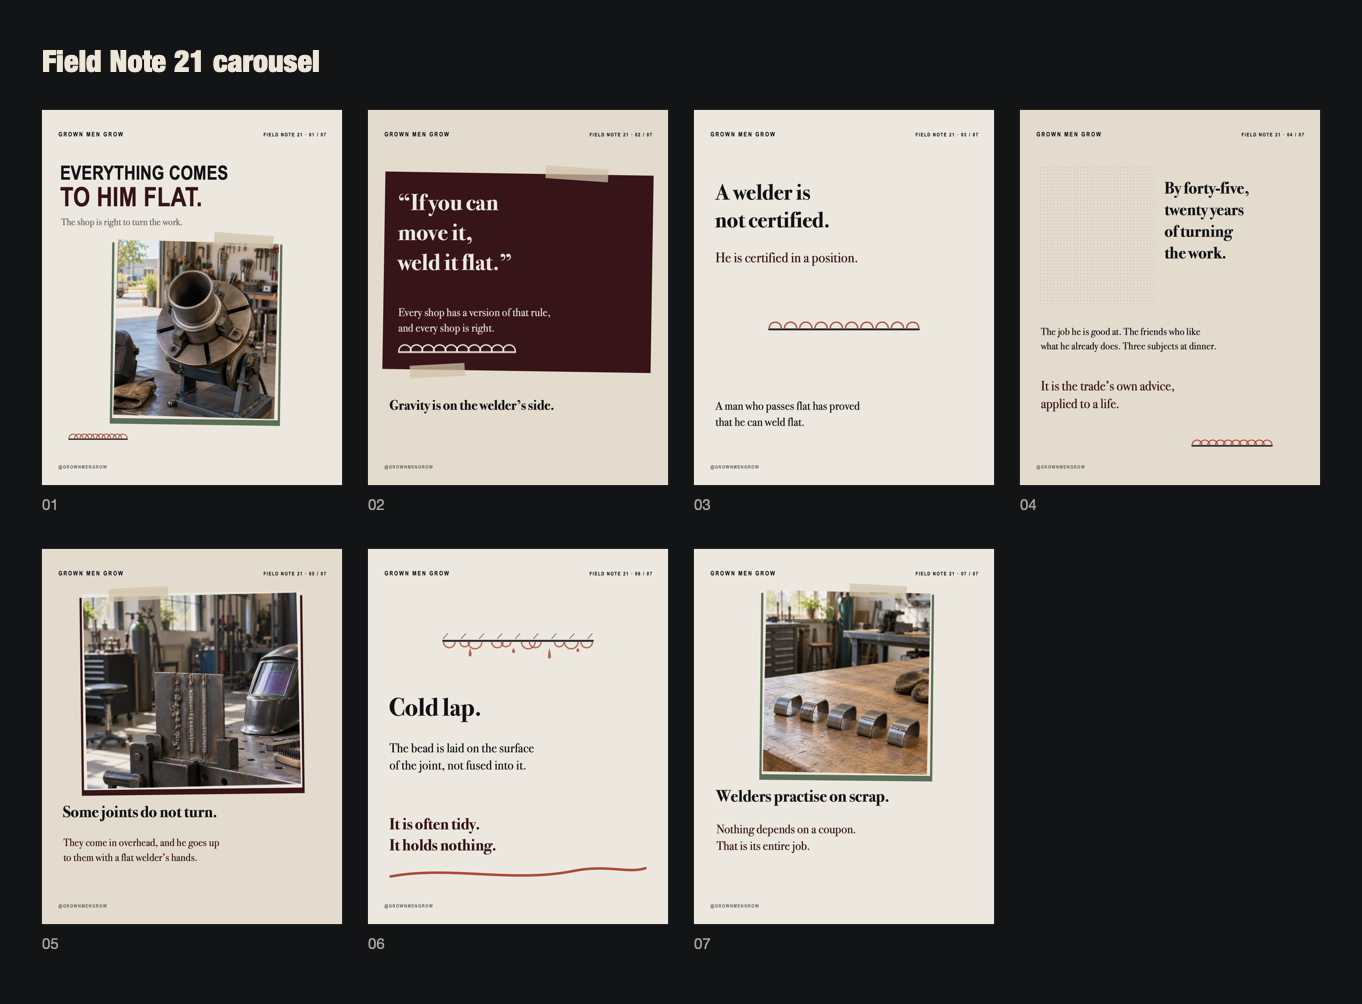
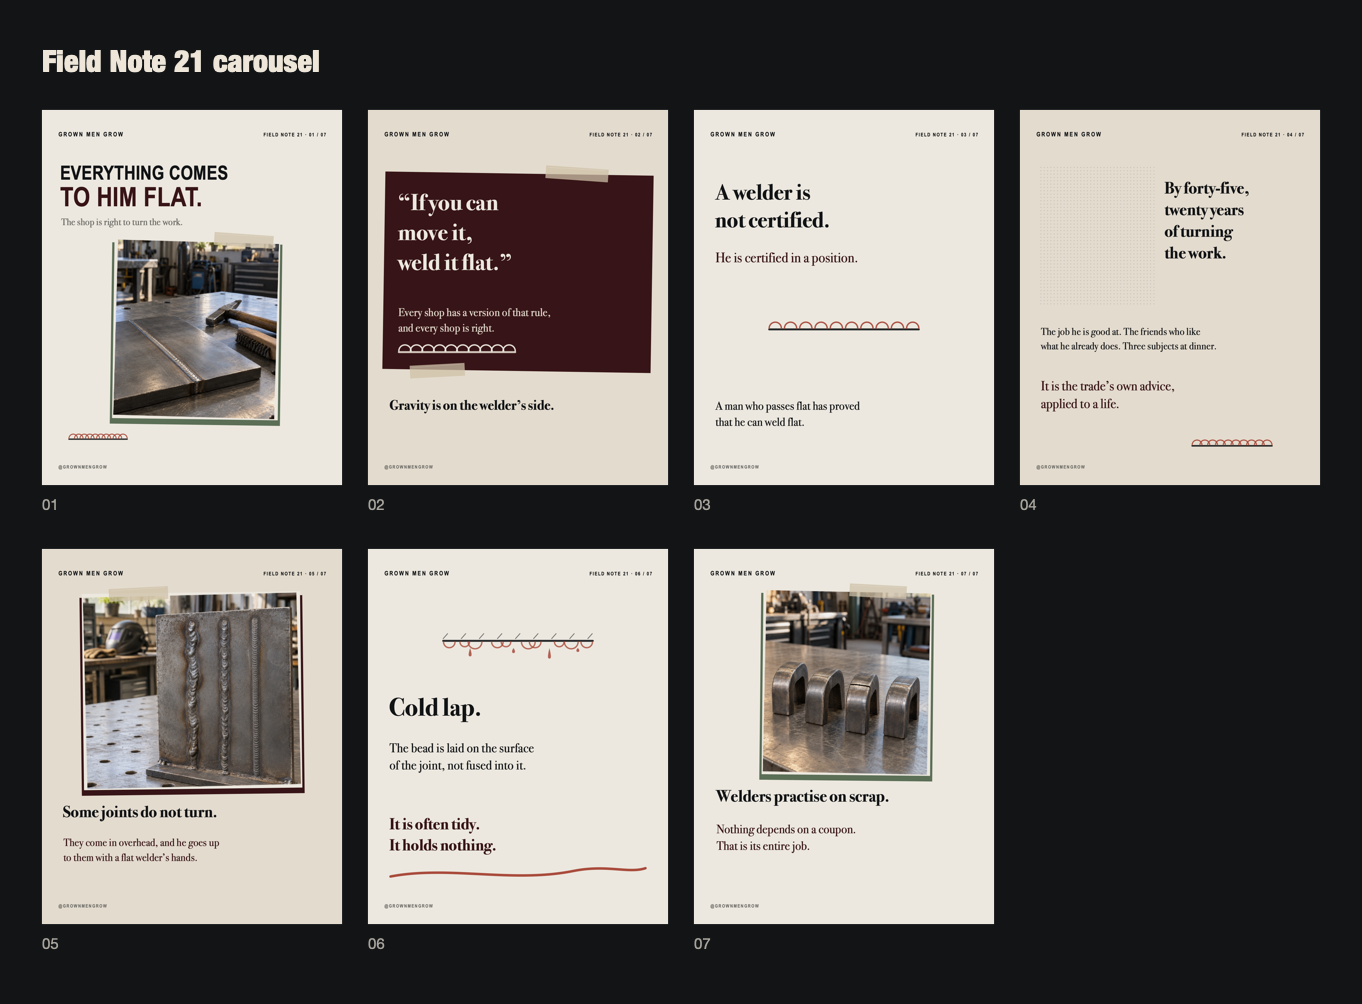
fix(field-note-21): regenerate all three photographs to the quality gate (#189)
A full-resolution re-review found a physical tell in every photograph shipped
in #188: chuck jaws off the faceplate slots, a clamp crank driving no screw,
and sheet-metal clips passed off as bend-test bars. The gate rejects on one
tell, so all three are replaced. Six further generations failed and were
rejected on named tells; the prompts that kept failing on mechanisms now omit
the mechanism. Exact prompts and the rejection record are in the note's
production notes. No copy changed.

Changed region(s): [[0.0617, 0.5867, 0.2467, 0.8028], [0.0617, 0.2161, 0.2159, 0.4323], [0.5551, 0.5867, 0.7093, 0.7719]]

diff --git a/drafts/field-note-21-everything-comes-to-him-flat.md b/drafts/field-note-21-everything-comes-to-him-flat.md
@@ -6,7 +6,7 @@ byline: none — publication voice (founder ruling 2026-08-10)
 access: public
 email_subject: Everything Comes to Him Flat
 preview: A welder is not certified. He is certified in a position.
-feature_image_alt: A short length of steel pipe clamped in a benchtop welding positioner with its finished seam turned face up, beside a practice plate clamped upright with uneven beads run up it, in a paper collage.
+feature_image_alt: Two steel plates butt-welded flat on a welding table with one clean finished bead, beside a practice plate standing upright with three vertical beads that run from rough to clean, in a paper collage.
 status: draft — NOT founder-approved
 approved: no
 publication_authorized: false — NOT authorized for publication, newsletter delivery, metadata, or social posting
@@ -133,19 +133,19 @@ Some joints do not turn. They arrive already installed, and they come in overhea
 
 # Instagram alt text source
 
-- Slide 1: Title Everything Comes to Him Flat above a photograph of a steel pipe clamped in a benchtop welding positioner with its seam turned face up in a daylit shop, and a small drawn bead mark.
+- Slide 1: Title Everything Comes to Him Flat above a photograph of two steel plates butt-welded flat on a welding table in a daylit shop, a chipping hammer and wire brush beside them, and a small drawn bead mark.
 - Slide 2: Serif text quoting the shop rule to weld it flat if you can move it, over a torn oxblood field, with the bead mark drawn in pale ink, level and evenly rippled.
 - Slide 3: Sparse page about being certified in a position, with the bead mark drawn at full scale on a level joint line.
 - Slide 4: Halftone field beside text about a competent man spending twenty years turning the work, with the bead mark small and level.
-- Slide 5: A practice plate clamped upright with uneven beads run up it, above text about joints that do not turn.
+- Slide 5: A practice plate standing upright on an angle-iron foot with three vertical beads run up it, rough on the left and clean on the right, above text about joints that do not turn.
 - Slide 6: The bead mark drawn at full scale hanging from the underside of a hatched ceiling line, its ripples uneven and drops pulling off it, above text defining cold lap.
-- Slide 7: A row of steel test strips bent into U shapes on a workbench, above closing text about practising on scrap.
+- Slide 7: Four thick steel test bars bent into U shapes on a steel bench, one split across its weld at the bend, above closing text about practising on scrap.
 
 # Visual direction
 
 - Family: Field Note; image-led cover, alternating photograph and type interiors, clean shop daylight, fabrication. Signature: a hand-drawn **bead mark** — a straight joint line with a run of overlapping crescent ripples laid along it. Its first state draws the line level with the ripples even and tight; its second tilts the same line up to overhead, with the ripples spaced unevenly and small drops hanging off the underside. Same bead, same length, and the only thing that changes is which way gravity is pulling on it. No prior vocabularies: not the counterbalance, load path, tolerance stack, downspout, strength curve, sling, transfer switch, battery gauge, route line, tally, ledger, alarm arc, diverging fork, anode section, bubble vial or branch stub.
-- Lead: a steel pipe clamped in a benchtop welding positioner, seam turned face up, one clean bead finished around the joint.
-- Details: a practice plate clamped upright in a fixture with uneven vertical beads run up it; a row of bent test strips on a workbench.
+- Lead: two steel plates butt-welded flat on a welding table, one clean finished bead, a chipping hammer and wire brush set down beside them.
+- Details: a practice plate standing upright on a tacked angle-iron foot with three vertical beads from rough to clean; four thick bend-test bars on a steel bench, one split at its weld.
 - All three photographs newly generated for this note under the house prompt in `docs/technical/content-pipeline.md`, unique to it, and each used in at most one published asset per the 2026-08-16 exclusivity ruling.
 
 # Production notes
@@ -154,7 +154,8 @@ Some joints do not turn. They arrive already installed, and they come in overhea
 - Stance is `assignment`. `operating-cadence.md` carries `**Standing commission:** none`, and the subject test fails for witness: running coupons out of position is a move the reader has. The most recent note shipped `witness`.
 - No first-person anecdote appears and no event is asserted as having happened; the essay runs in the generic present per the 2026-08-08 founder ruling, reaffirmed 2026-08-12.
 - The trade specifics are ordinary welding practice — the flat-position rule and work positioners, position-specific welder qualification, cold lap, the guided bend test, and the structural code's six-month continuity rule for a welder's qualification — used as metaphor, not as instruction.
-- Photography generated 2026-09-16 in the founder's ChatGPT project, continuing the current Editorial Photography Request thread as its tenth, eleventh and twelfth images. Prompts recorded below.
-- `assets/source/editorial/pipe-positioner-seam-up.png` (slide 1, feature image) — "Now a tenth, separate image in the same editorial photography style, portrait orientation 2:3, single image. A short length of steel pipe clamped in a small benchtop welding positioner, the turntable tilted so the seam faces straight up, one neat, evenly rippled weld bead finished around the joint; the image suggests work deliberately brought around to where it can be done well. A well-kept small fabrication shop in use, swept concrete floor, clamps and hand tools hung on the wall behind, daylight coming in from an open roll-up door. No people. Contemporary editorial photography with the polish of a major men's magazine, natural texture, restrained fine film grain, candid rather than posed. Dynamic off-center composition with clean negative space above the work. Soft morning daylight, warm, optimistic, grounded. Adult subject, pristine natural anatomy, maintained welcoming setting, no logos, no readable text, no watermark. Avoid: sparks, flame or glowing orange metal, grime and rust, heavy dramatic shadows, macho workshop cliches, cluttered scrap piles, a bead that looks melted or blobby, a positioner with impossible or floating mechanics."
-- `assets/source/editorial/vertical-practice-plate-beads.png` (slide 5, feature image) — "Now an eleventh, separate image in the same editorial photography style, portrait orientation 2:3, single image. Two small square steel practice plates tacked together and clamped upright in a sturdy fixture on the arm of a steel welding table, the seam running vertically, with three practice weld beads run up the plate side by side: the left one lumpy with small sagging drips, the middle one better, the right one nearly even; the image suggests somebody honestly learning a hard position on scrap, with visible progress. A clean, well-kept fabrication shop in daily use, a welding helmet resting on the table beside the fixture, soft window daylight. No people. Contemporary editorial photography with the polish of a major men's magazine, natural texture, restrained fine film grain, candid rather than posed. Asymmetric composition, plate in the lower third, clean negative space above. Soft late-morning daylight, warm, optimistic, grounded. Adult subject, pristine natural anatomy, maintained welcoming setting, no logos, no readable text, no watermark. Avoid: sparks, glowing hot metal, rust and filth, piles of scrap, dramatic moody lighting, identical copy-pasted beads, beads that float off the plate or ignore the seam, a clamp that holds nothing, a helmet with a logo."
-- `assets/source/editorial/bend-test-strips-bench.png` (slide 7) — "Now a twelfth, separate image in the same editorial photography style, portrait orientation 2:3, single image. A short row of five narrow flat steel test strips on a clean wooden-topped workbench, each strip bent cleanly into a tight U shape with a ground-flush weld across the middle of the bend, lying on their sides in a loose, natural line; one strip near the end has a small open split along its weld on the outside of the bend; the image suggests an honest test that tells the truth about the work. A tidy, well-used fabrication shop, a pair of work gloves set down at the edge of the bench, soft daylight from a side window. No people. Contemporary editorial photography with the polish of a major men's magazine, natural texture, restrained fine film grain, candid rather than posed. Dynamic off-center composition, strips in the lower half, clean negative space above. Soft afternoon daylight, warm, optimistic, grounded. Adult subject, pristine natural anatomy, maintained welcoming setting, no logos, no readable text, no stamped numbers, no watermark. Avoid: rust and grime, sparks or heat glow, dramatic shadows, strips bent into impossible or rubbery curves, identical cloned strips, metal that looks like plastic or ribbon, a crack drawn like a cartoon, clutter."
+- Photography generated 2026-09-16 in the founder's ChatGPT project, continuing the current Editorial Photography Request thread. Nine images were generated and three kept; every rejection was made against the quality gate at full resolution, on a physical tell, not on taste.
+- Rejected, and why: the first pipe-in-positioner image (chuck jaws sat between the faceplate's slots rather than in them); the first vertical plate (a clamp crank connected to no screw); the first bend strips (thin sheet clips with curled, hooked ends rather than test bars); a pipe on turning rolls (one wheel per station, the pipe unsupported where the second should carry it); a second vertical plate (beads rendered as strings of polished balls); a third vertical plate (a C-clamp with two screws and two T-handles, and text-like marks on its frame). The first round shipped in #188 with a flag on the strips; it should not have shipped at all, and this change set replaces all three.
+- `assets/source/editorial/flat-plate-butt-weld-bench.png` (slide 1, feature image) — "Now a fourteenth, separate image in the same editorial photography style, portrait orientation 2:3, single image. Two rectangular steel plates about half an inch thick, butt-welded edge to edge and lying flat on a clean steel welding table, joined by one straight, finished weld bead with an even, fine ripple running the full length of the seam; a chipping hammer and a wire brush set down on the table beside the plates; the image suggests work done in the position where good work comes easily. A well-kept fabrication shop in daily use, softly out of focus behind, daylight from a large window. No people. Contemporary editorial photography with the polish of a major men's magazine, natural texture, restrained fine film grain, candid rather than posed. Dynamic off-center composition, the bead running diagonally from lower left toward the middle, clean negative space above. Soft morning daylight raking low across the bead so its ripples read, warm, optimistic, grounded. Adult subject, pristine natural anatomy, maintained welcoming setting, no logos, no readable text, no watermark. Avoid: a bead that wanders off the seam, a bead that floats above the steel, more than one seam, plates of inconsistent thickness, tools that melt into the table, a hammer with a malformed head or handle, sparks or glowing metal, grime and rust, dramatic shadows, clutter."
+- `assets/source/editorial/practice-plate-angle-foot.png` (slide 5, feature image) — "Now a seventeenth, separate image in the same editorial photography style, portrait orientation 2:3, single image. A close view of a single square steel practice plate about a foot across standing upright on a steel welding table, tack-welded at its base to a short foot of angle iron so it stands on its own; no clamps anywhere in the frame. Three practice weld beads run vertically up the face of the plate side by side, the way a real welding student's plate looks: the left bead wide and uneven, with irregular humps and a couple of short sags where the metal ran; the middle bead narrower and more consistent but still wavering; the right bead tight, flat and evenly rippled; all three matte grey steel with faint heat tint, fused into the plate. The image suggests somebody honestly learning a hard position on scrap, with visible progress. A clean, well-kept fabrication shop in daily use, softly out of focus behind, a welding helmet on a far bench, soft window daylight. No people. Contemporary editorial photography with the polish of a major men's magazine, natural texture, restrained fine film grain, candid rather than posed. Asymmetric composition, the plate filling the right two thirds of the lower frame, clean negative space above and to the left. Soft late-morning daylight, warm, optimistic, grounded. Adult subject, pristine natural anatomy, maintained welcoming setting, no logos, no readable text, no stamped letters or numbers, no watermark. Avoid: any clamp, vise, crank or handle; beads that look like strings of balls or pearls; shiny chrome droplets; beads sitting on the surface instead of fused into it; a plate that leans impossibly; sparks or glowing metal; rust and filth; dramatic moody lighting; clutter."
+- `assets/source/editorial/bend-test-bars-bench.png` (slide 7) — "Now an eighteenth, separate image in the same editorial photography style, portrait orientation 2:3, single image. Four heavy steel weld test bars on a clean steel workbench, each a thick flat bar about three-eighths of an inch thick and an inch and a half wide, bent in a press into a tight U around a round former so both legs run parallel; each lies on its side so the thick U profile faces the camera, the weld a faint band ground flush across the outside of each bend; three bends are smooth and whole, and the fourth has a short, clean, open split across its weld on the outside of the bend, the way a failed bend test actually looks. The bars are placed in an uneven, natural row as someone set them down, with a steel ruler-free pencil mark nowhere; the image suggests an honest test that tells the truth about the work. A tidy, well-used fabrication shop softly out of focus behind, soft daylight from a side window. No people. Contemporary editorial photography with the polish of a major men's magazine, natural texture, restrained fine film grain, candid rather than posed. Dynamic off-center composition, bars in the lower half, clean negative space above. Soft afternoon daylight, warm, optimistic, grounded. Adult subject, pristine natural anatomy, maintained welcoming setting, no logos, no readable text, no stamped letters or numbers, no watermark. Avoid: thin sheet metal, clips, rings or ribbon shapes; curled, hooked or flared ends; legs that splay apart or change thickness; identical cloned bars; a crack drawn like a cartoon zigzag; rust and grime; sparks or heat glow; dramatic shadows; clutter." The garbled clause about a pencil mark is recorded as sent. The bars render standing on their legs rather than on their sides, which is physically sound.

diff --git a/docs/technical/handoff-log.md b/docs/technical/handoff-log.md
@@ -3361,3 +3361,21 @@ To post it: open `substack.com/@grownmengrow/notes`, confirm the `Edit profile` 
 **Verification, each gate named and run:** `verify-ghost-theme.mjs`; `pnpm --dir theme install --frozen-lockfile`; `pnpm --dir theme test` (exit 0); the theme zip with `gscan -z --fatal --verbose` (exit 0); `node --test 'scripts/test/**/*.test.mjs'` — 184 pass, 0 fail; `verify-repository.mjs` over 691 tracked files; `verify-svg-xml.sh` (206 SVGs); `git diff --check` clean. Every rendered slide, the feature image, and the review sheet were inspected; the overhead mark's hatching overran its joint line on first render and was fixed before commit.
 
 **Open, in order:** (1) Founder review of Field Note 21: essay, pack, and artwork. (2) Approval makes the bank 21, which is the corpus-test threshold in the decision log; the measurement falls due in that change set. (3) Carried forward unchanged: Saturday's Substack Note 2 pending, the suspended-session hole, the distribution problem, the newsletter list at one member, the A/B suspended under its thirty-recipient marker, and the extract-zip acceptances expiring 2026-11-09.
+
+## 2026-09-16 — Claude Code — Field Note 21 photography regenerated to the quality gate
+
+**Client:** Claude Code (continuation of the Wednesday draft run, at the founder's instruction). **Branch:** `claude/field-note-21-image-regeneration-2026-09-16`.
+
+**Correction to the entry above.** It shipped the draft with a known flag on one photograph and handed the call to the founder. That was wrong: the quality gate in `editorial-visual-system.md` says one obvious synthetic tell rejects the image, and applying it is the agent's job, not the founder's. The founder said so. A full-resolution re-review then found tells in all three photographs, not one, so all three are replaced.
+
+**What was rejected, and on what tell.** Pipe in a positioner: chuck jaws sitting between the faceplate's slots. First vertical plate: a clamp crank connected to no screw. Bend strips: thin sheet clips with curled ends, not test bars. Replacement attempts also failed and were rejected: a pipe on turning rolls (one wheel per station, the pipe unsupported), a vertical plate whose beads rendered as strings of polished balls, and one whose C-clamp had two screws and two T-handles. Nine generations, three kept. The prompts that failed on mechanisms were rewritten to remove the mechanism rather than to ask for it more carefully.
+
+**Kept:** `flat-plate-butt-weld-bench.png` (cover, feature), `practice-plate-angle-foot.png` (slide 5, feature), `bend-test-bars-bench.png` (slide 7). Exact prompts and the rejection record are in the note's production notes.
+
+**Files changed:** `assets/source/editorial/` (three removed, three added), `scripts/render-field-note-21.mjs`, `scripts/verify-repository.mjs`, `drafts/field-note-21-everything-comes-to-him-flat.md` (alt text, feature alt, visual direction, production notes), `drafts/field-note-21-platforms.md` (image rule), the re-rendered slides 1, 5, 7, feature image and review sheet, and this log. No copy changed.
+
+**External state changed:** six further image generations in the founder's ChatGPT project. Nothing published, sent, or posted.
+
+**Verification, each gate named and run:** listed in the pull request body; results recorded there and in the report to the founder.
+
+**Open, in order:** (1) Founder review of Field Note 21. (2) Corpus measurement falls due at approval (bank 21). (3) Carried forward unchanged from the entry above.

diff --git a/drafts/field-note-21-platforms.md b/drafts/field-note-21-platforms.md
@@ -4,7 +4,7 @@ canonical: https://grownmengrow.com/everything-comes-to-him-flat/ (live only aft
 status: draft — NOT founder-approved
 approved: no
 publication_authorized: false — NOT authorized for posting on any platform
-image_rule: per-article — this pack may use only Field Note 21 imagery: pipe-positioner-seam-up, vertical-practice-plate-beads, bend-test-strips-bench
+image_rule: per-article — this pack may use only Field Note 21 imagery: flat-plate-butt-weld-bench, practice-plate-angle-foot, bend-test-bars-bench
 stance_note: assignment — the excerpts carry the mechanism and the cost; none of them issues the move, which stays in the essay's last paragraph where it is left to him
 ---
 
